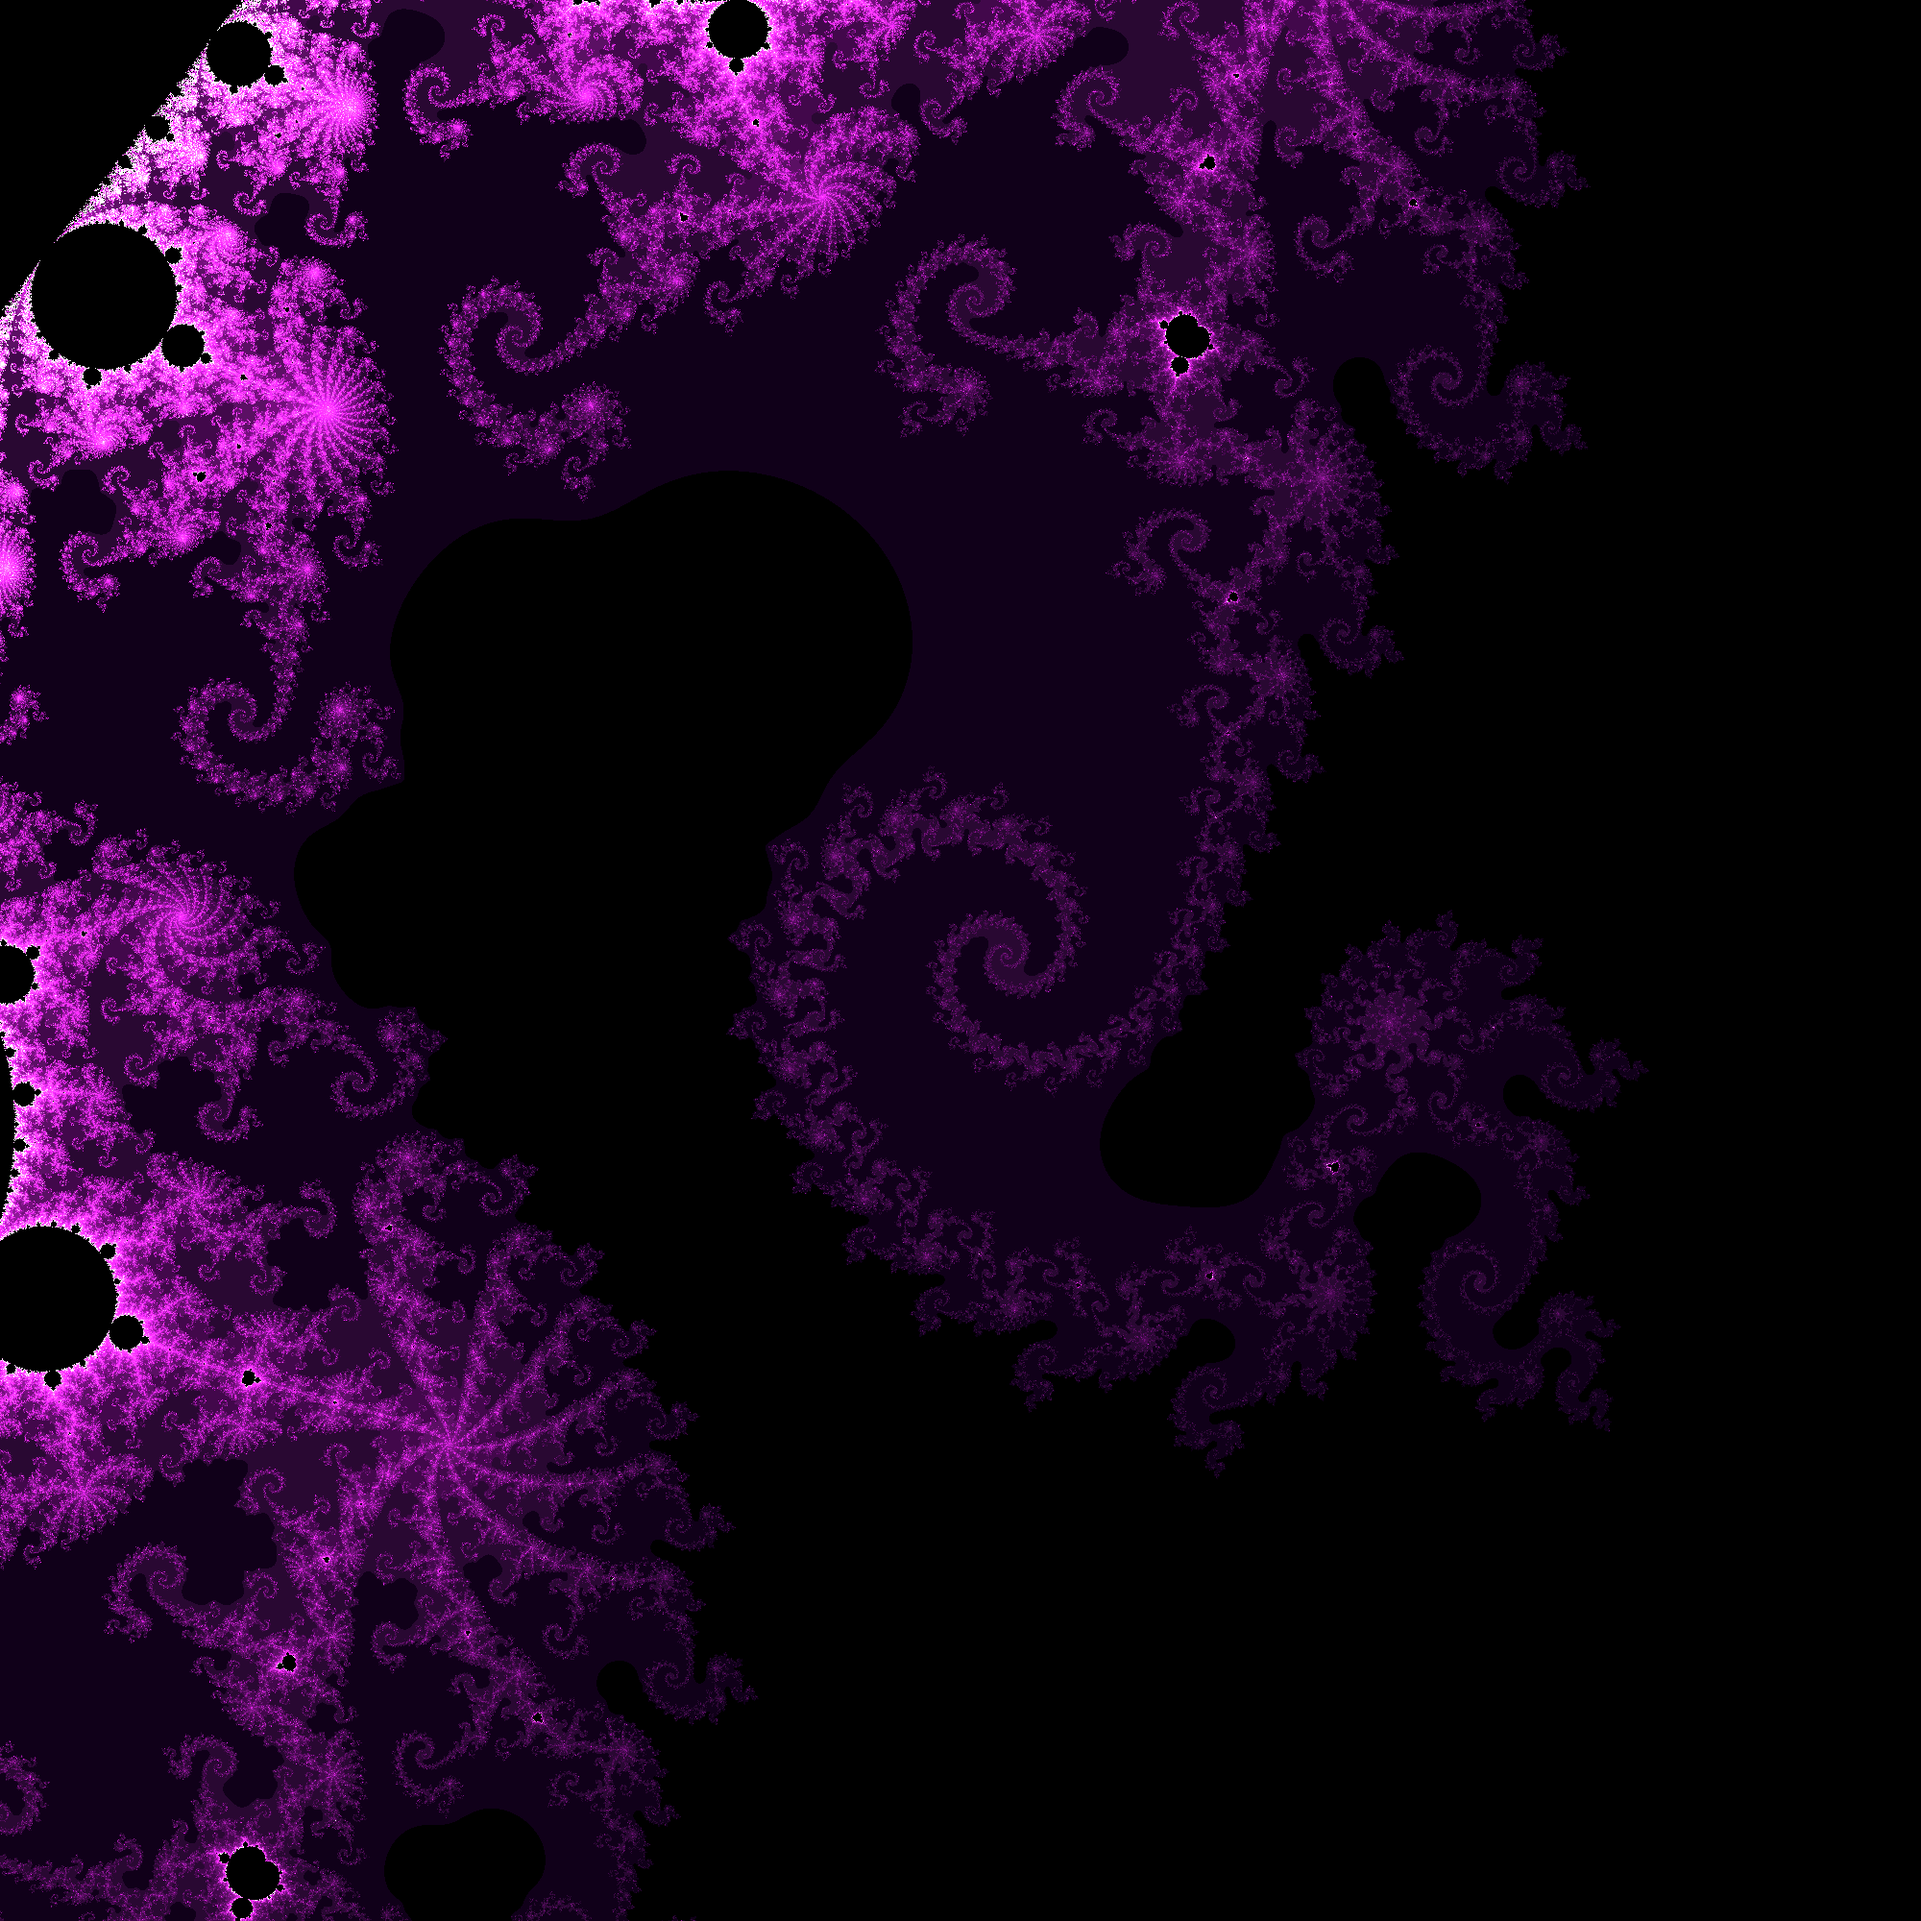
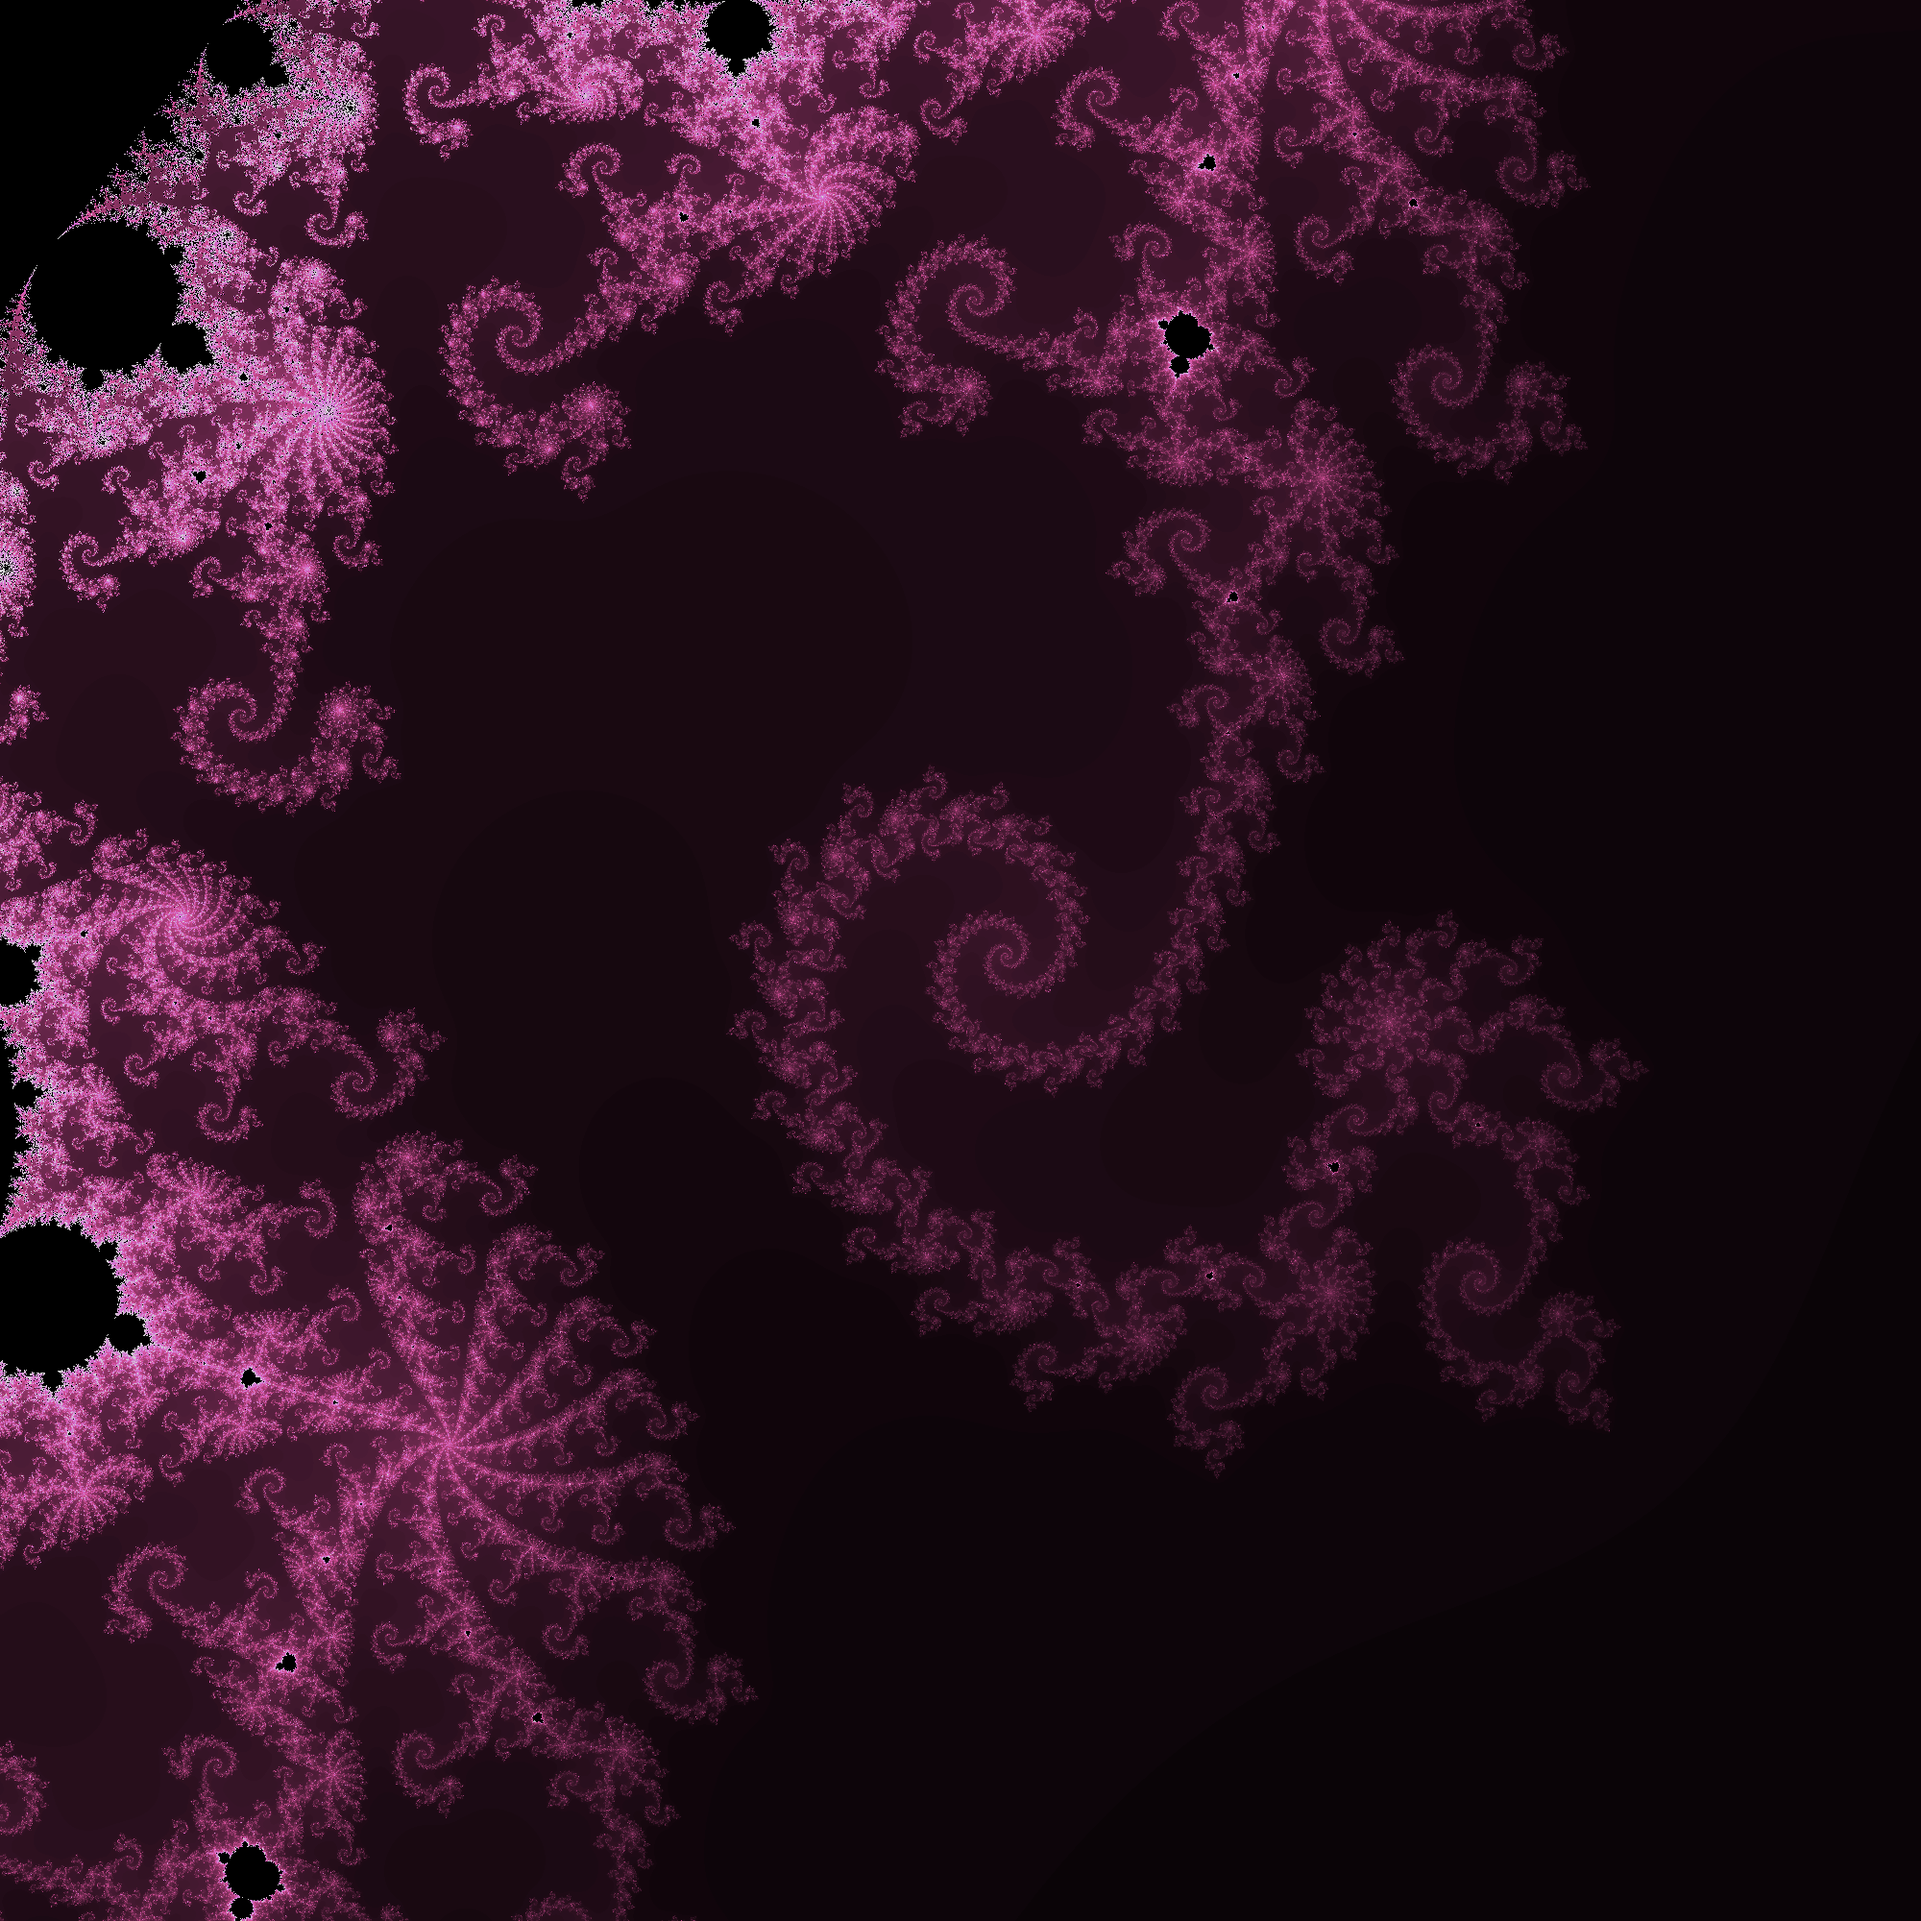
Animations

diff --git a/Mandelbrot.py b/Mandelbrot.py
@@ -1,10 +1,11 @@
 import numpy as np
 import matplotlib.pyplot as plt
 from time import time
-from PIL import Image, ImageEnhance
+from PIL import Image, ImageEnhance, ImageOps
+import imageio
 
-
-maxiter = 10000
+start_iter = 17
+maxiter = 200
 border = 4
 
 x, y = -0.793197078177363, 0.16093721735804
@@ -14,54 +15,60 @@ pmax = x + 0.01
 qmin = y - 0.01
 qmax = y + 0.01
 
-# pmin = -2
-# pmax = 2
+# pmin = -2.5
+# pmax = 1.5
 # qmin = -2
 # qmax = 2
 
-ppoints = 2000
-qpoints = 2000
+ppoints = 1000
+qpoints = 1000
 
 
-def Mandelbrot(maxiter, border, pmin, pmax, qmin, qmax, ppoints, qpoints):
+def Mandelbrot_step(step, z, c, border, image):
+    z = z ** 2 + c
+    mask = ((np.abs(z) > border) & (image == 0))
+    image[mask] = step
+    z[mask] = np.nan
+    return z, image
+
+
+def Mandelbrot(maxiter, border, pmin, pmax, qmin, qmax, ppoints, qpoints, return_points=False, transpose=False):
     image = np.zeros((ppoints, qpoints))
     p, q = np.mgrid[pmin:pmax:(ppoints * 1j), qmin:qmax:(qpoints * 1j)]
     c = p + 1j * q
     z = np.zeros(c.shape, dtype=np.complex128)
     for i in range(maxiter):
-        z = z ** 2 + c
-        mask = ((np.abs(z) > border) & (image == 0))
-        image[mask] = i
-        z[mask] = np.nan
-    return image.T
+        z, image = Mandelbrot_step(i, z, c, border, image)
+    if transpose:
+        image = image.T
+        if return_points:
+            c = c.T
+            z = z.T
+    if not return_points:
+        return image
+    else:
+        return (image, c, z)
+
+
+def make_pictures(start_iter, maxiter, border, pmin, pmax, qmin, qmax, ppoints, qpoints):
+    image, c, z = Mandelbrot(start_iter, border, pmin, pmax, qmin, qmax, ppoints, qpoints, return_points=True, transpose=True)
+    for i in range(start_iter, maxiter):
+        z, image = Mandelbrot_step(i, z, c, border, image)
+        img = (image * 255. / np.max(image)).astype('uint8')
+        img = Image.fromarray(img, 'L')
+        img = ImageOps.colorize(img, black='black', white='white', mid='green', blackpoint=5, whitepoint=255)
+        img.save(f'result_{i}.png')
+
+    
+def make_gif(start_iter, maxiter):
+    images = []
+    for i in range(start_iter, maxiter - 1):
+        im = f'result_{i}.png'
+        images.append(imageio.imread(im))
+    imageio.mimsave('animation.gif', images)
 
 
 start = time()
-image = Mandelbrot(maxiter, border, pmin, pmax, qmin, qmax, ppoints, qpoints)
-image = (image * 255. / np.max(image)).astype('uint8')
-image = np.dstack((image, image, image))
-
-img = Image.fromarray(image, mode='RGB')
-
-r, g, b = img.split()
-
-rr = np.random.uniform(0.5, 3.5)
-rg = np.random.uniform(0.5, 3.5)
-rb = np.random.uniform(0.5, 3.5)
-
-print(rr, rg, rb)
-
-r = r.point(lambda i: i * rr)
-g = g.point(lambda i: i * rg)
-b = b.point(lambda i: i * rb)
-
-result = Image.merge('RGB', (r, g, b))
-
-filter = ImageEnhance.Brightness(result)
-
-result = filter.enhance(maxiter / 1200.)
-
+make_pictures(start_iter, maxiter, border, pmin, pmax, qmin, qmax, ppoints, qpoints)
+make_gif(start_iter, maxiter)
 print(time() - start)
-
-result.save('result.png')
-result.show()

diff --git a/README.md b/README.md
@@ -2,3 +2,5 @@
 Python implementation of Mandelbrot set visualization.
 
 ![Mandelbrot set](result.png "Zoomed in Mandelbrot set")
+![Mandelbrot set](animation.gif "Zoomed in Mandelbrot set")
+![Mandelbrot set](animation_2.gif "Mandelbrot set")
